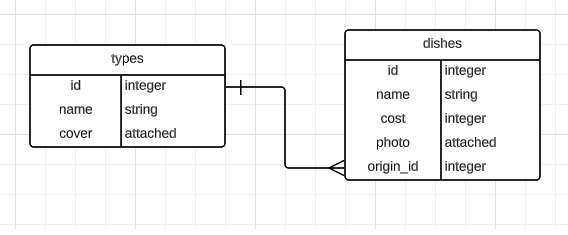
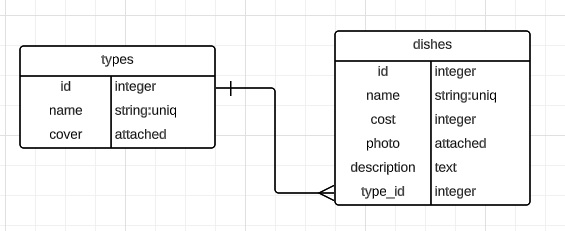
CREATE: models

Changed region(s): [[0.0, 0.0, 1.0, 0.9697], [0.6619, 0.4848, 0.7221, 0.5455]]

diff --git a/db/migrate/20230719164703_create_dishes.rb b/db/migrate/20230719164703_create_dishes.rb
@@ -1,0 +1,13 @@
+class CreateDishes < ActiveRecord::Migration[7.0]
+  def change
+    create_table :dishes do |t|
+      t.string :name
+      t.integer :cost
+      t.text :description
+      t.references :type, null: false, foreign_key: true
+
+      t.timestamps
+    end
+    add_index :dishes, :name, unique: true
+  end
+end

diff --git a/db/migrate/20230719164109_create_types.rb b/db/migrate/20230719164109_create_types.rb
@@ -1,0 +1,10 @@
+class CreateTypes < ActiveRecord::Migration[7.0]
+  def change
+    create_table :types do |t|
+      t.string :name
+
+      t.timestamps
+    end
+    add_index :types, :name, unique: true
+  end
+end

diff --git a/app/models/dish.rb b/app/models/dish.rb
@@ -1,0 +1,3 @@
+class Dish < ApplicationRecord
+  belongs_to :type
+end

diff --git a/app/models/type.rb b/app/models/type.rb
@@ -1,0 +1,2 @@
+class Type < ApplicationRecord
+end
